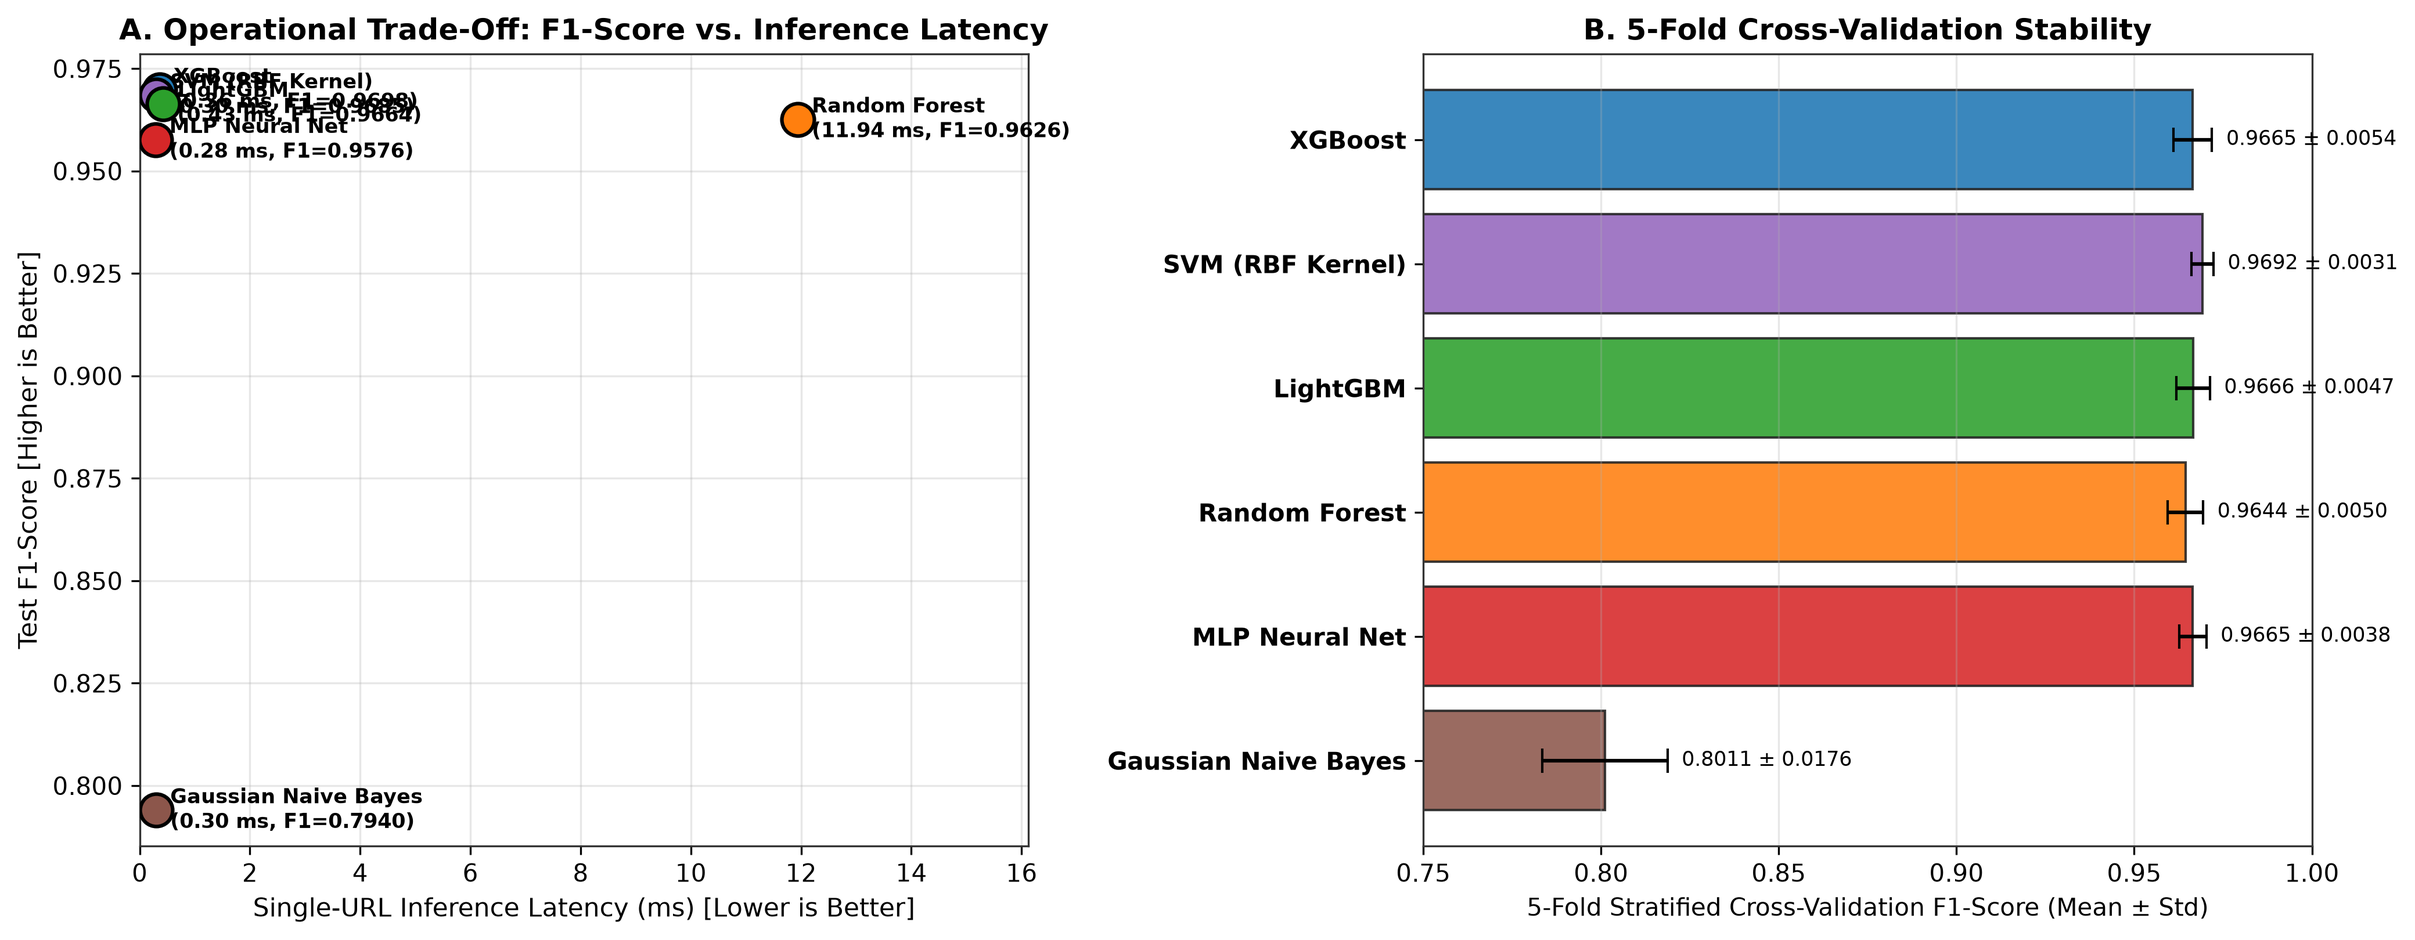
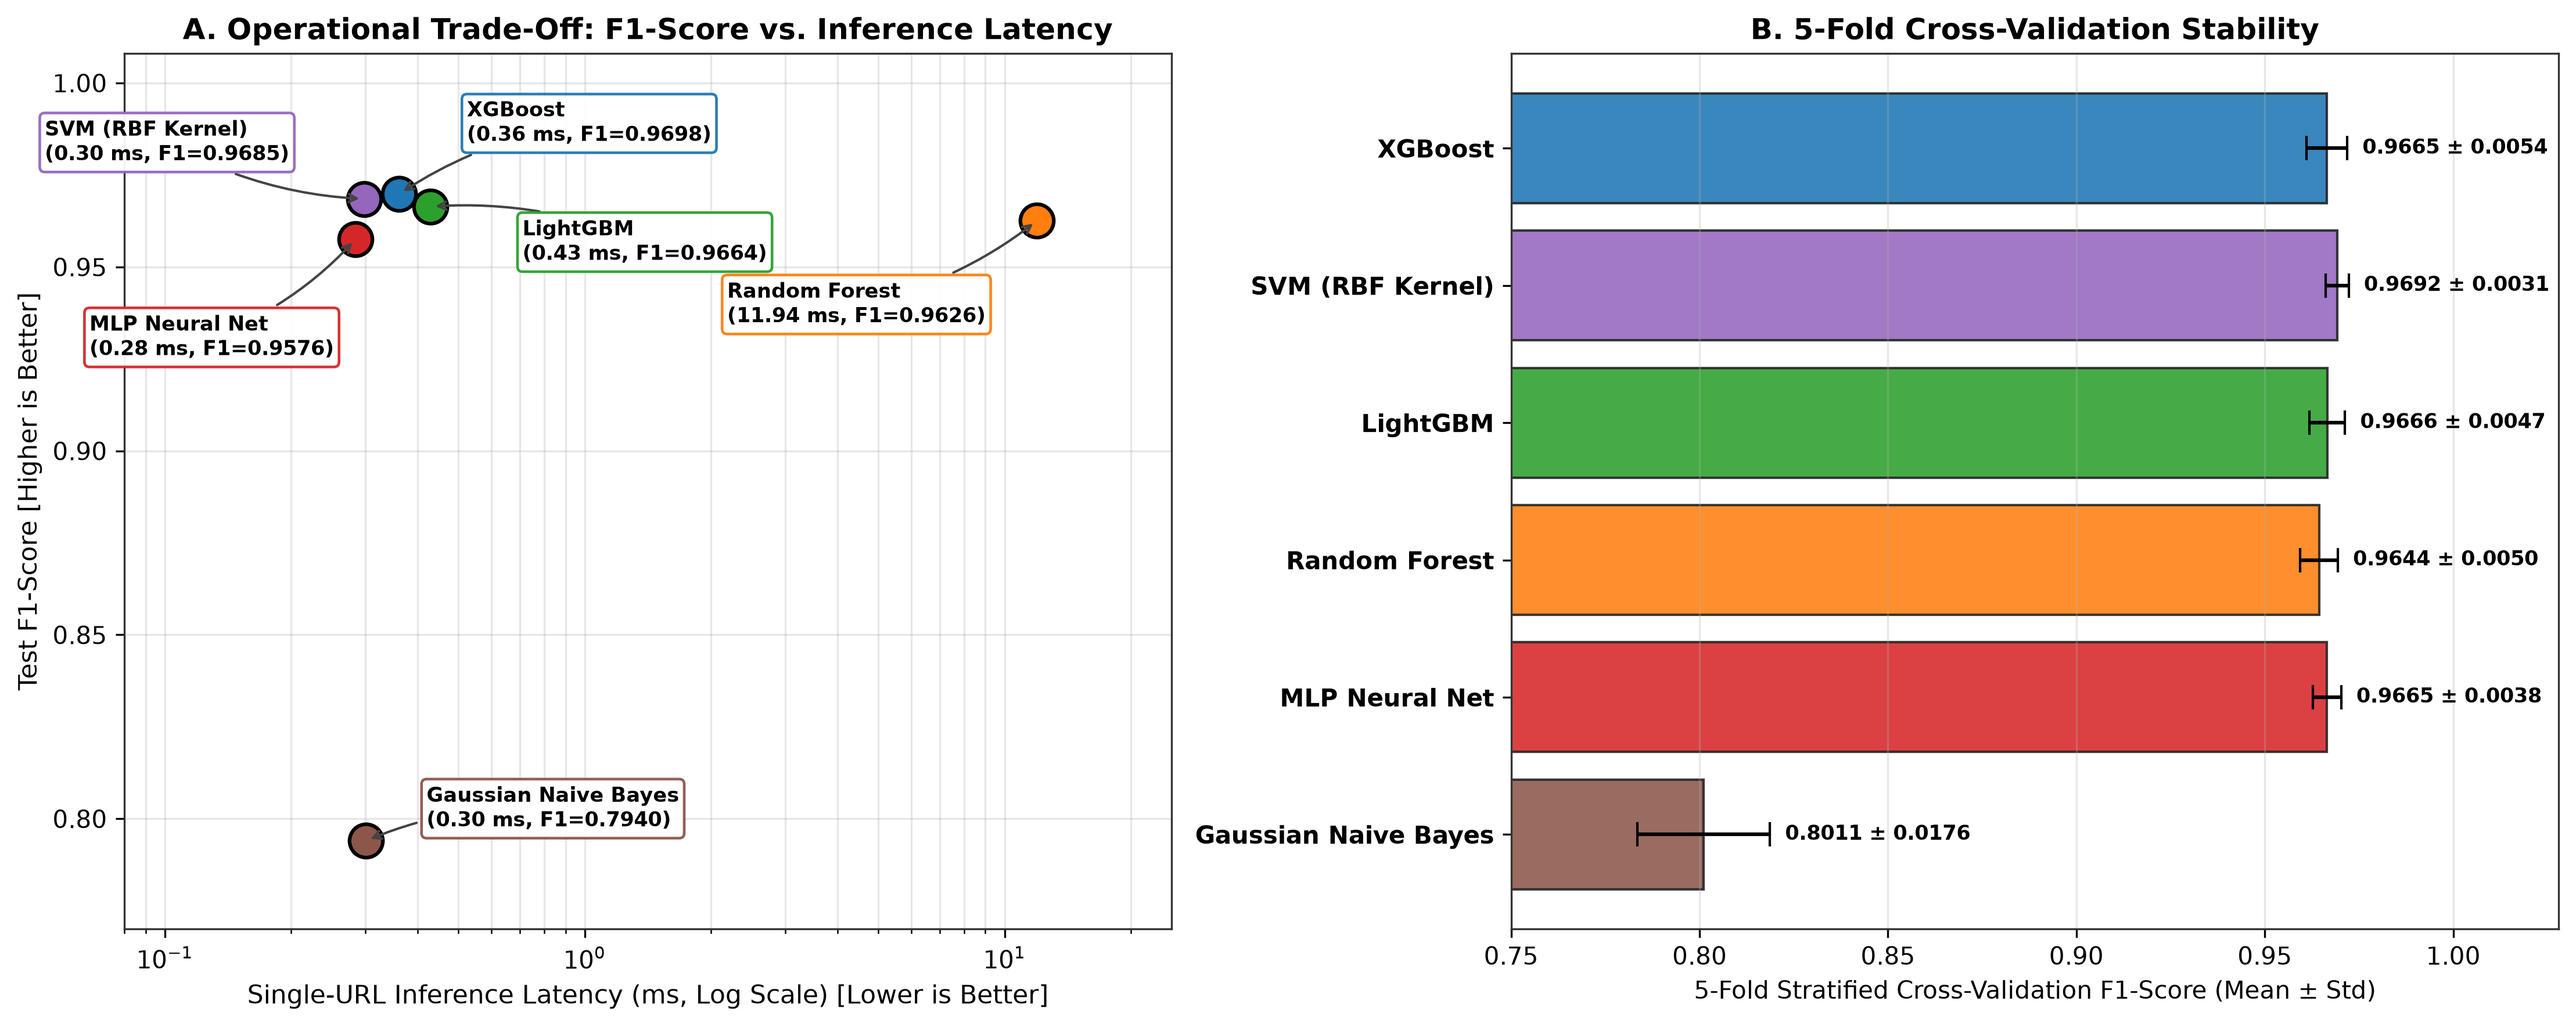
Fix overlapping labels on Latency vs F1 Pareto chart and CV error bars

diff --git a/src/train_and_evaluate.py b/src/train_and_evaluate.py
@@ -453,30 +453,50 @@ def evaluate_and_compare():
     plt.close()
 
     # 7. Speed vs Accuracy Pareto Frontier + 5-Fold Cross-Validation Stability Boxplot
-    fig, axes = plt.subplots(1, 2, figsize=(14, 5.5))
+    fig, axes = plt.subplots(1, 2, figsize=(15, 6))
+
+    # Distinct non-overlapping callout offsets (dx, dy in points) for each model on log-x scale
+    label_offsets = {
+        "XGBoost": (28, 22),
+        "SVM (RBF Kernel)": (-132, 16),
+        "LightGBM": (38, -22),
+        "Random Forest": (-128, -42),
+        "MLP Neural Net": (-110, -48),
+        "Gaussian Naive Bayes": (25, 6),
+    }
+
+    axes[0].set_xscale("log")
     for _, row in results_df.iterrows():
         m_name = row["Model"]
+        x_val = row["Inference_Latency_ms"]
+        y_val = row["Test_F1"]
         axes[0].scatter(
-            row["Inference_Latency_ms"],
-            row["Test_F1"],
-            s=180,
+            x_val,
+            y_val,
+            s=190,
             color=MODEL_COLORS[m_name],
             edgecolors="black",
             linewidth=1.5,
             zorder=5
         )
+        dx, dy = label_offsets.get(m_name, (15, 0))
         axes[0].annotate(
-            f"  {m_name}\n  ({row['Inference_Latency_ms']:.2f} ms, F1={row['Test_F1']:.4f})",
-            (row["Inference_Latency_ms"], row["Test_F1"]),
-            fontsize=8.5,
+            f"{m_name}\n({x_val:.2f} ms, F1={y_val:.4f})",
+            xy=(x_val, y_val),
+            xytext=(dx, dy),
+            textcoords="offset points",
+            fontsize=8.3,
             fontweight="bold",
-            va="center"
+            bbox=dict(boxstyle="round,pad=0.25", fc="white", ec=MODEL_COLORS[m_name], alpha=0.92, lw=1.1),
+            arrowprops=dict(arrowstyle="->", connectionstyle="arc3,rad=0.12", color="#444444", lw=1.0),
+            zorder=6,
         )
-    axes[0].set_xlabel("Single-URL Inference Latency (ms) [Lower is Better]", fontsize=10.5)
+    axes[0].set_xlabel("Single-URL Inference Latency (ms, Log Scale) [Lower is Better]", fontsize=10.5)
     axes[0].set_ylabel("Test F1-Score [Higher is Better]", fontsize=10.5)
     axes[0].set_title("A. Operational Trade-Off: F1-Score vs. Inference Latency", fontsize=12, fontweight="bold")
-    axes[0].grid(alpha=0.3)
-    axes[0].set_xlim(0, max(results_df["Inference_Latency_ms"]) * 1.35)
+    axes[0].grid(True, which="both", alpha=0.3)
+    axes[0].set_xlim(0.16, 28.0)
+    axes[0].set_ylim(0.77, 1.005)
 
     # CV F1 Mean + Error Bars
     y_pos = np.arange(len(results_df))
@@ -492,11 +512,11 @@ def evaluate_and_compare():
     axes[1].set_yticks(y_pos)
     axes[1].set_yticklabels(results_df["Model"], fontweight="bold")
     axes[1].invert_yaxis()
-    axes[1].set_xlim(0.75, 1.0)
+    axes[1].set_xlim(0.75, 1.025)
     axes[1].set_xlabel("5-Fold Stratified Cross-Validation F1-Score (Mean ± Std)")
     axes[1].set_title("B. 5-Fold Cross-Validation Stability", fontsize=12, fontweight="bold")
     for i, row in results_df.iterrows():
-        axes[1].text(row["CV_F1_Mean"] + row["CV_F1_Std"] + 0.004, i, f"{row['CV_F1_Mean']:.4f} ± {row['CV_F1_Std']:.4f}", va="center", fontsize=8.5)
+        axes[1].text(row["CV_F1_Mean"] + row["CV_F1_Std"] + 0.004, i, f"{row['CV_F1_Mean']:.4f} ± {row['CV_F1_Std']:.4f}", va="center", fontsize=8.5, fontweight="bold")
     axes[1].grid(axis="x", alpha=0.3)
 
     plt.tight_layout()
